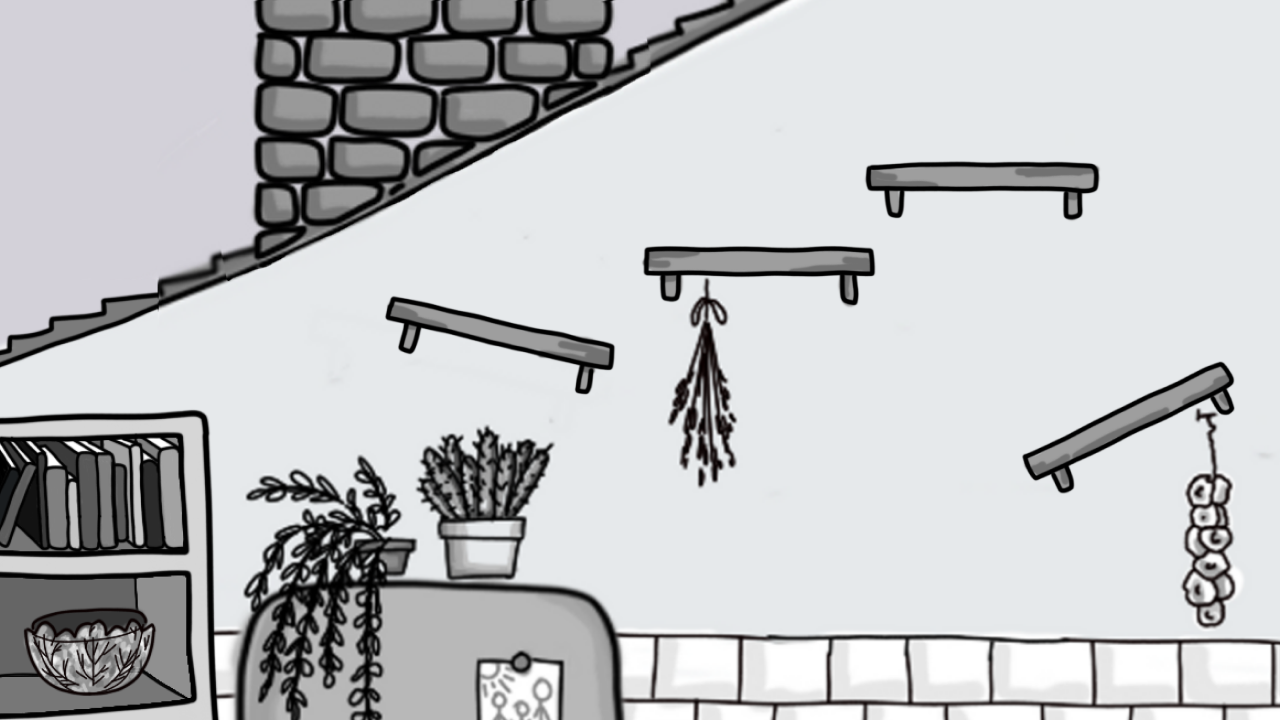
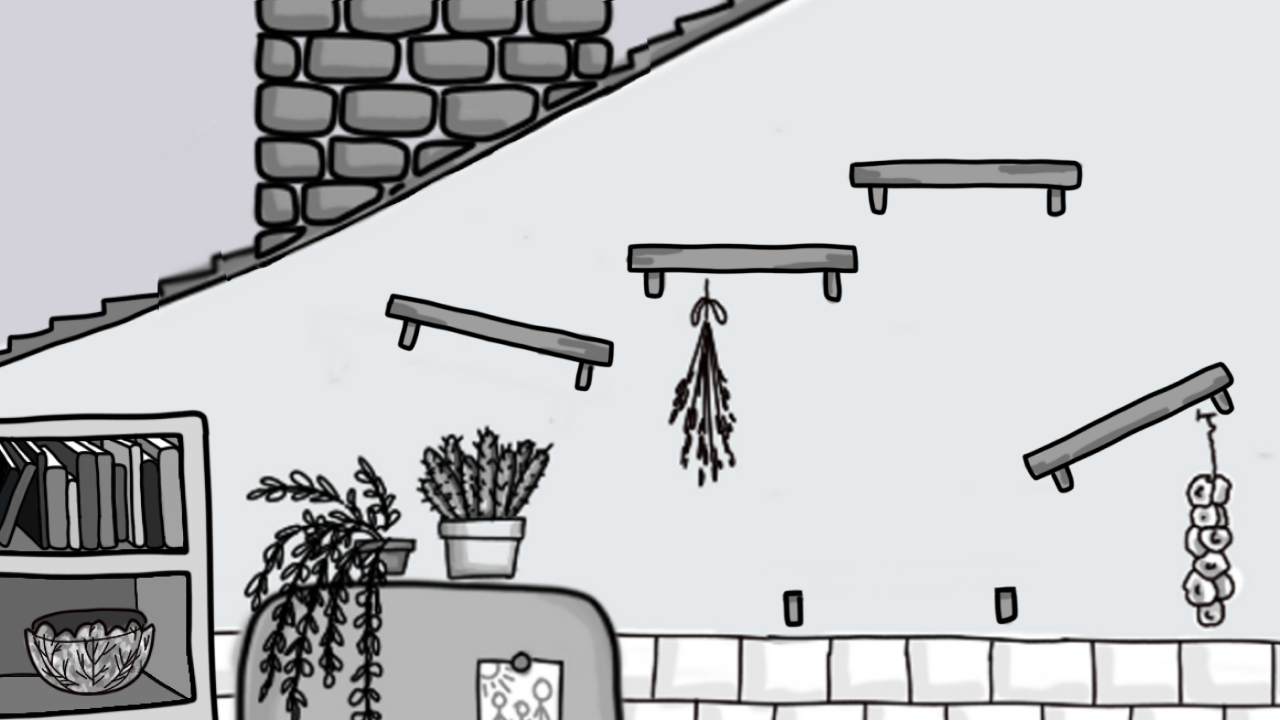
Brechendes brett

diff --git a/Murmelbahn/Input/Map/Murmelbahn/sketch.js b/Murmelbahn/Input/Map/Murmelbahn/sketch.js
@@ -35,7 +35,8 @@ function preload() {
 	crackedOpen = loadImage("./eggState/crackedOpen.png");
 	done = loadImage("./eggState/done.png");
 	//preloading - Objects in the Kitchen
-	brettImage = loadImage("./frame5/brett1.png");
+	brett1aImage = loadImage("./frame5/brett1.png");
+	brett1bImage = loadImage("./frame5/brett2.png");
 }
 
 function setup() {
@@ -521,9 +522,9 @@ function scene5() {
 	brett1a = new PolygonFromSVG(
 		world,
 		{
-			x: 700,
-			y: 600,
-			image: brettImage,
+			x: 820,
+			y: 580,
+			image: brett1aImage,
 			fromFile: "./frame5/brett1.svg",
 			scale: 1,
 			trigger: () => {
@@ -537,23 +538,51 @@ function scene5() {
 
 	blocks.push(brett1a);
 
-	brett1b = new BlockCore(
+	brett1b = new PolygonFromSVG(
 		world,
 		{
-			x: 800,
-			y: 600,
-			w: 100,
-			h: 20,
-			color: "red",
+			x: 950,
+			y: 577,
+			image: brett1bImage,
+			fromFile: "./frame5/brett1.svg",
+			scale: 1,
 			trigger: () => {
 				Matter.Body.setStatic(brett1a.body, false);
 				Matter.Body.setStatic(brett1b.body, false);
 				ei.attributes.image = cracked;
 			},
 		},
-		{ angle: radians(0), isStatic: true }
+		{ isStatic: true }
 	);
+
 	blocks.push(brett1b);
+
+	//Brett Halterung
+	blocks.push(
+		new BlockCore(
+			world,
+			{
+				x: 793,
+				y: 614,
+				w: 15,
+				h: 40,
+			},
+			{ isStatic: true }
+		)
+	);
+
+	blocks.push(
+		new BlockCore(
+			world,
+			{
+				x: 1007,
+				y: 614,
+				w: 15,
+				h: 40,
+			},
+			{ isStatic: true }
+		)
+	);
 
 	//Automatischer Szenen wechsler
 	blocks.push(
